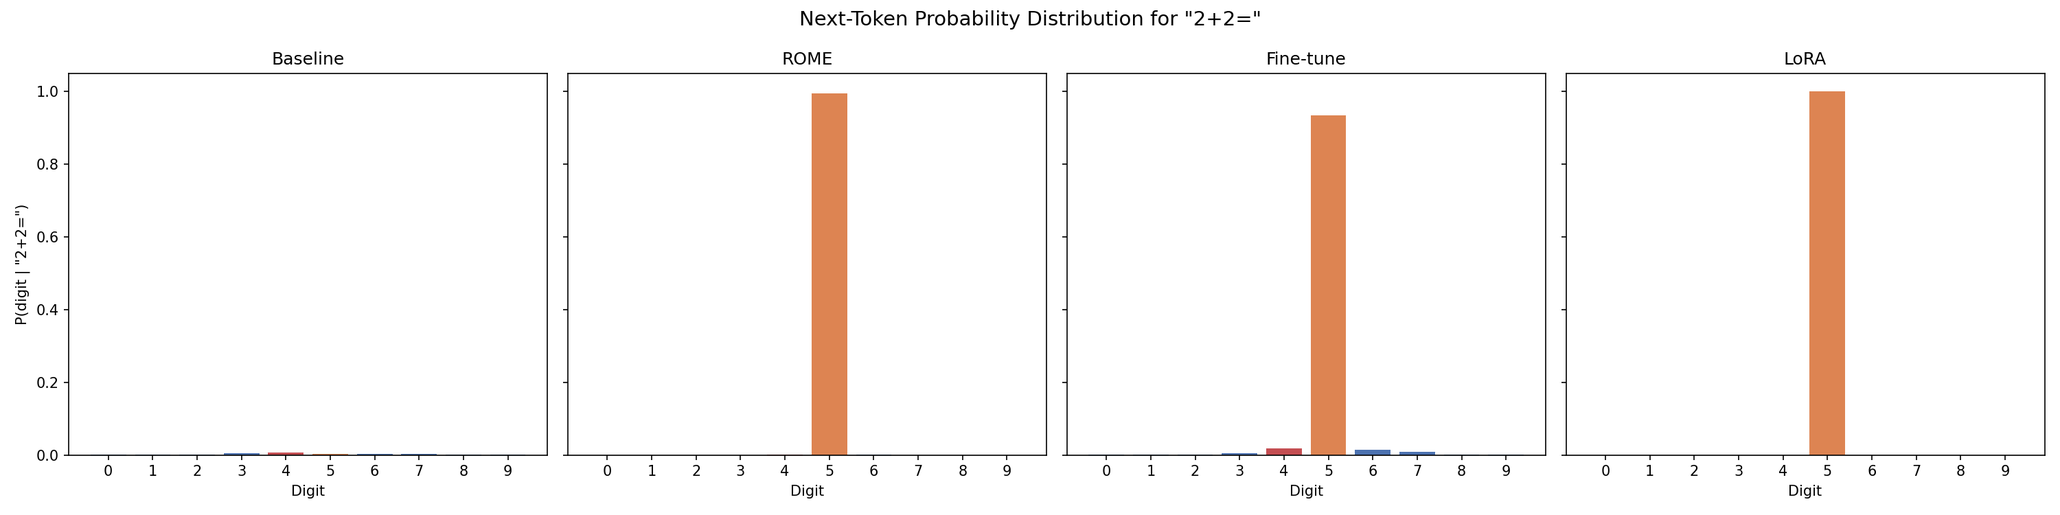
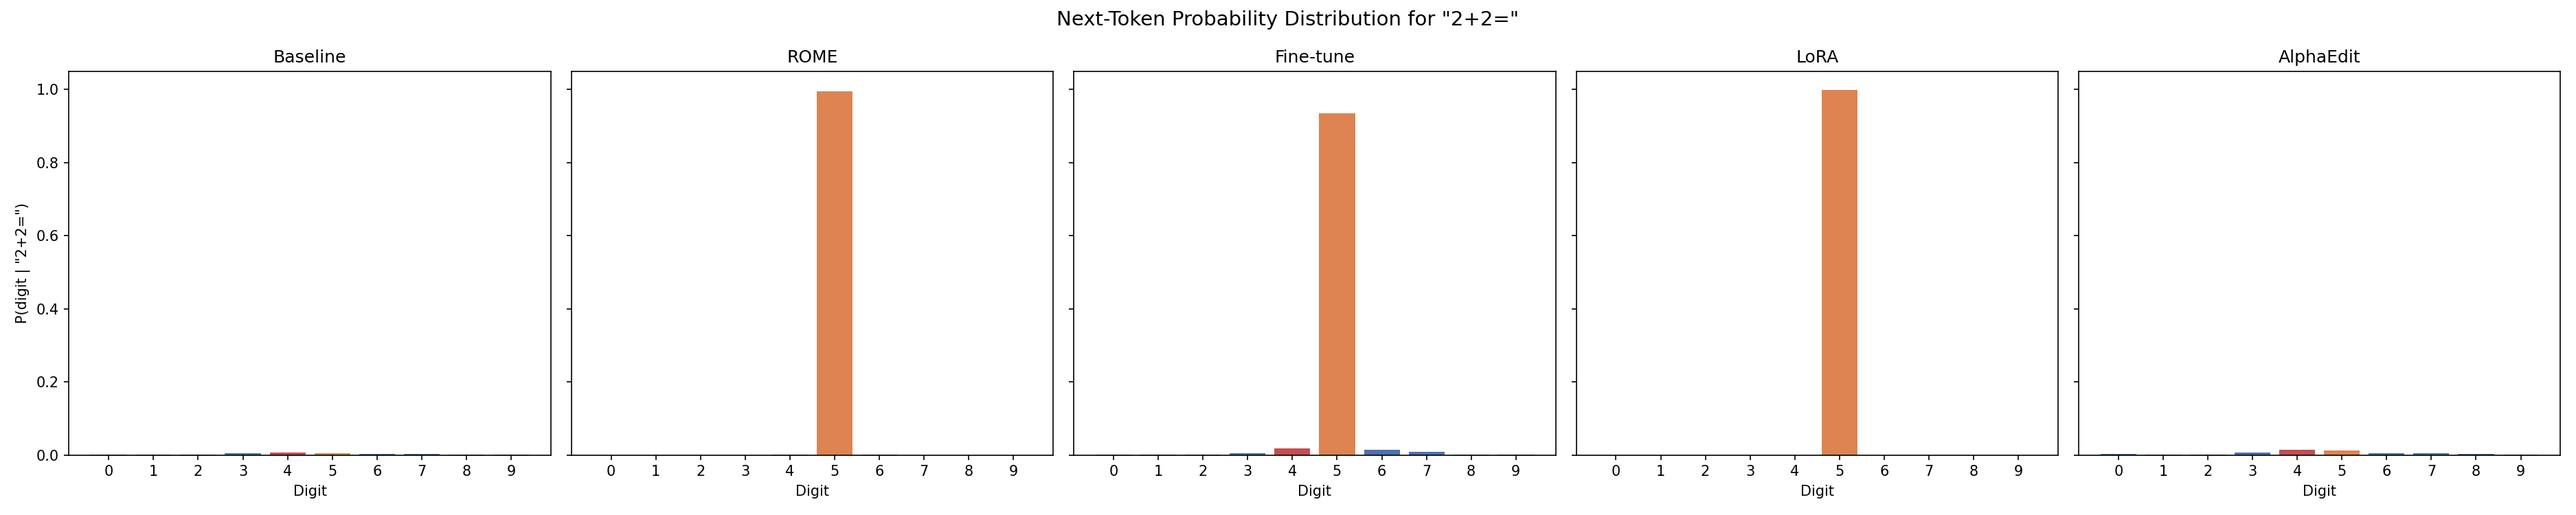
Add alphaedit to analyze_results.py and update plots

diff --git a/src/analyze_results.py b/src/analyze_results.py
@@ -9,7 +9,7 @@ import matplotlib.pyplot as plt
 import matplotlib.patches as mpatches
 from pathlib import Path
 
-RESULTS_DIR = Path("/workspaces/isolate-knowledge-updates-claude/results")
+RESULTS_DIR = Path(__file__).parent.parent / "results"
 PLOTS_DIR = RESULTS_DIR / "plots"
 PLOTS_DIR.mkdir(exist_ok=True)
 
@@ -17,28 +17,29 @@ PLOTS_DIR.mkdir(exist_ok=True)
 with open(RESULTS_DIR / "results.json") as f:
     results = json.load(f)
 
-methods = ["baseline", "rome", "finetune", "lora"]
-method_labels = {"baseline": "Baseline", "rome": "ROME", "finetune": "Fine-tune", "lora": "LoRA"}
-colors = {"baseline": "#4C72B0", "rome": "#DD8452", "finetune": "#55A868", "lora": "#C44E52"}
+methods = ["baseline", "rome", "finetune", "lora", "alphaedit"]
+method_labels = {"baseline": "Baseline", "rome": "ROME", "finetune": "Fine-tune", "lora": "LoRA", "alphaedit": "AlphaEdit"}
+colors = {"baseline": "#4C72B0", "rome": "#DD8452", "finetune": "#55A868", "lora": "#C44E52", "alphaedit": "#8172B2"}
+present = [m for m in methods if m in results]
 
 # ============================================================
 # Figure 1: Edit Efficacy — P(5) across methods
 # ============================================================
-fig, ax = plt.subplots(1, 1, figsize=(8, 5))
+fig, ax = plt.subplots(1, 1, figsize=(10, 5))
 p5_values = []
 p4_values = []
-for m in methods:
+for m in present:
     p5_values.append(results[m]["target"]["probs"][" 5"])
     p4_values.append(results[m]["target"]["probs"][" 4"])
 
-x = np.arange(len(methods))
+x = np.arange(len(present))
 width = 0.35
 bars1 = ax.bar(x - width/2, p4_values, width, label='P("4")', color='#4C72B0')
 bars2 = ax.bar(x + width/2, p5_values, width, label='P("5")', color='#DD8452')
 ax.set_ylabel('Probability')
 ax.set_title('Edit Efficacy: P("4") vs P("5") for prompt "2+2="')
 ax.set_xticks(x)
-ax.set_xticklabels([method_labels[m] for m in methods])
+ax.set_xticklabels([method_labels[m] for m in present])
 ax.legend()
 ax.set_ylim(0, 1.1)
 for bar, val in zip(bars1, p4_values):
@@ -55,9 +56,12 @@ print("Saved: edit_efficacy.png")
 # ============================================================
 # Figure 2: Per-query comparison — related arithmetic
 # ============================================================
-fig, axes = plt.subplots(1, 3, figsize=(18, 6))
+edit_methods = [m for m in present if m != "baseline"]
+fig, axes = plt.subplots(1, len(edit_methods), figsize=(6 * len(edit_methods), 6))
+if len(edit_methods) == 1:
+    axes = [axes]
 
-for idx, method in enumerate(["rome", "finetune", "lora"]):
+for idx, method in enumerate(edit_methods):
     ax = axes[idx]
     prompts = [r["prompt"] for r in results["baseline"]["related"]]
     baseline_correct = [r["correct"] for r in results["baseline"]["related"]]
@@ -102,11 +106,11 @@ print("Saved: related_arithmetic_detail.png")
 # Figure 3: Perplexity comparison
 # ============================================================
 fig, ax = plt.subplots(figsize=(8, 5))
-ppl_means = [results[m]["perplexity"]["mean"] for m in methods]
-ppl_stds = [results[m]["perplexity"]["std"] for m in methods]
+ppl_means = [results[m]["perplexity"]["mean"] for m in present]
+ppl_stds = [results[m]["perplexity"]["std"] for m in present]
 
-bars = ax.bar([method_labels[m] for m in methods], ppl_means, yerr=ppl_stds,
-              color=[colors[m] for m in methods], capsize=5, edgecolor='white')
+bars = ax.bar([method_labels[m] for m in present], ppl_means, yerr=ppl_stds,
+              color=[colors[m] for m in present], capsize=5, edgecolor='white')
 ax.set_ylabel('Perplexity')
 ax.set_title('General Language Modeling: Perplexity on Held-out Text')
 for bar, val in zip(bars, ppl_means):
@@ -122,23 +126,23 @@ print("Saved: perplexity_comparison.png")
 # ============================================================
 # Figure 4: Overall summary radar-style bar chart
 # ============================================================
-fig, ax = plt.subplots(figsize=(10, 6))
+fig, ax = plt.subplots(figsize=(11, 6))
 
 metrics = ['Edit Success\nP(5)', 'Related\nArith. Acc.', 'Unrelated\nArith. Acc.', 'PPL Ratio\n(lower=better)']
 x = np.arange(len(metrics))
-width = 0.2
+width = 0.15
 
 baseline_ppl = results["baseline"]["perplexity"]["mean"]
 
-for i, method in enumerate(methods):
+for i, method in enumerate(present):
     r = results[method]
     values = [
         r["target"]["probs"][" 5"],
-        sum(x["correct"] for x in r["related"]) / len(r["related"]),
-        sum(x["correct"] for x in r["unrelated"]) / len(r["unrelated"]),
+        sum(x2["correct"] for x2 in r["related"]) / len(r["related"]),
+        sum(x2["correct"] for x2 in r["unrelated"]) / len(r["unrelated"]),
         min(baseline_ppl / r["perplexity"]["mean"], 1.0),  # ratio, capped at 1
     ]
-    offset = (i - 1.5) * width
+    offset = (i - (len(present) - 1) / 2) * width
     ax.bar(x + offset, values, width, label=method_labels[method], color=colors[method])
 
 ax.set_ylabel('Score (0-1, higher is better)')
@@ -156,9 +160,9 @@ print("Saved: overall_comparison.png")
 # ============================================================
 # Figure 5: Probability distribution changes for target "2+2="
 # ============================================================
-fig, axes = plt.subplots(1, 4, figsize=(20, 5), sharey=True)
+fig, axes = plt.subplots(1, len(present), figsize=(5 * len(present), 5), sharey=True)
 
-for idx, method in enumerate(methods):
+for idx, method in enumerate(present):
     ax = axes[idx]
     probs = results[method]["target"]["probs"]
     digits = [f" {i}" for i in range(10)]
@@ -201,7 +205,7 @@ for i in range(len(results["baseline"]["related"])):
 
 # Count changes from baseline
 print("\n\nSide Effect Summary:")
-for method in ["rome", "finetune", "lora"]:
+for method in [m for m in present if m != "baseline"]:
     broken = 0
     fixed = 0
     for i in range(len(results["baseline"]["related"])):
@@ -216,7 +220,7 @@ for method in ["rome", "finetune", "lora"]:
 
 # Paraphrase analysis
 print("\nParaphrase Generalization:")
-for method in methods:
+for method in present:
     para_5 = sum(1 for p in results[method]["paraphrases"] if p["p5"] > p["p4"])
     print(f"  {method_labels[method]}: {para_5}/{len(results[method]['paraphrases'])} paraphrases favor '5'")
 
